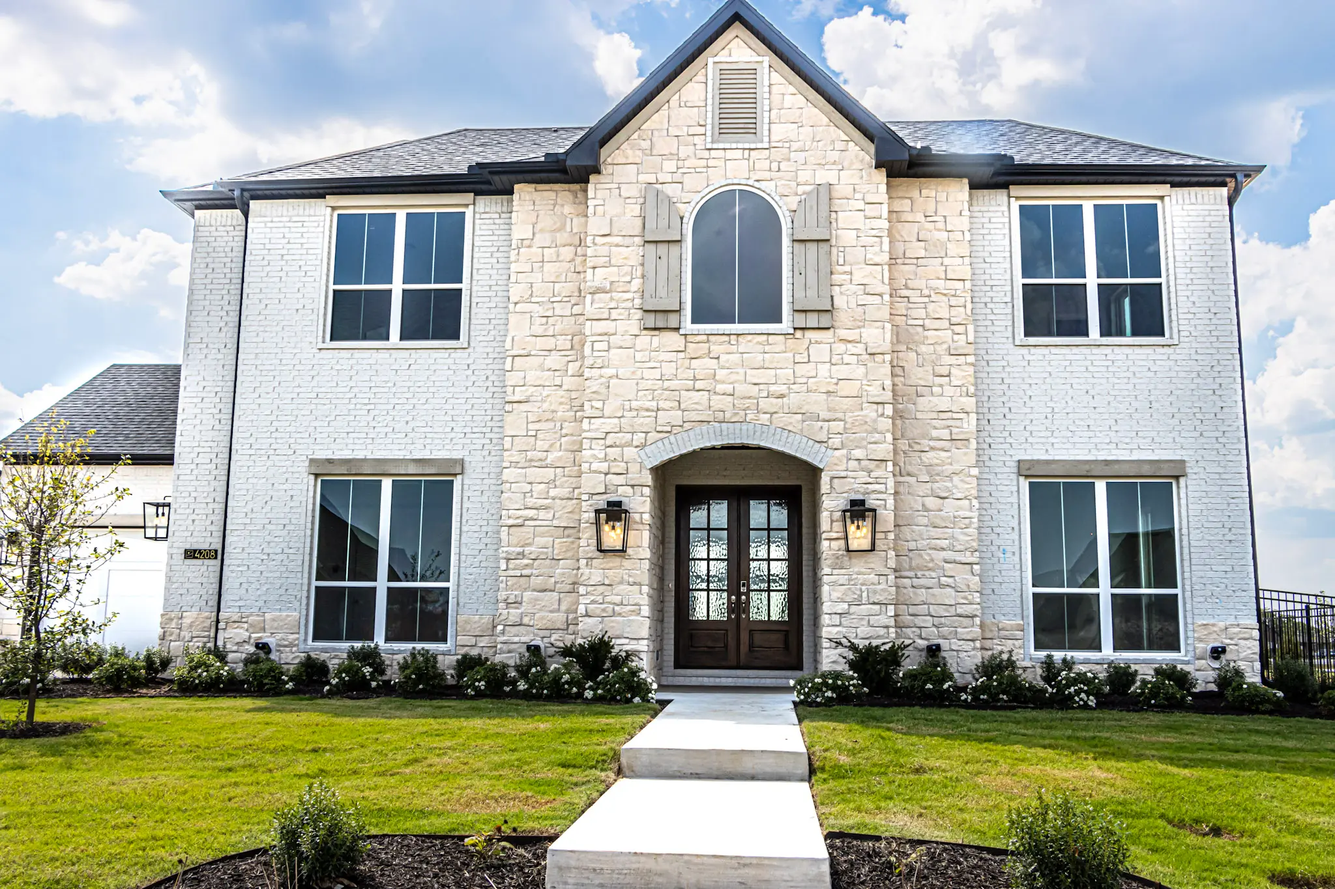
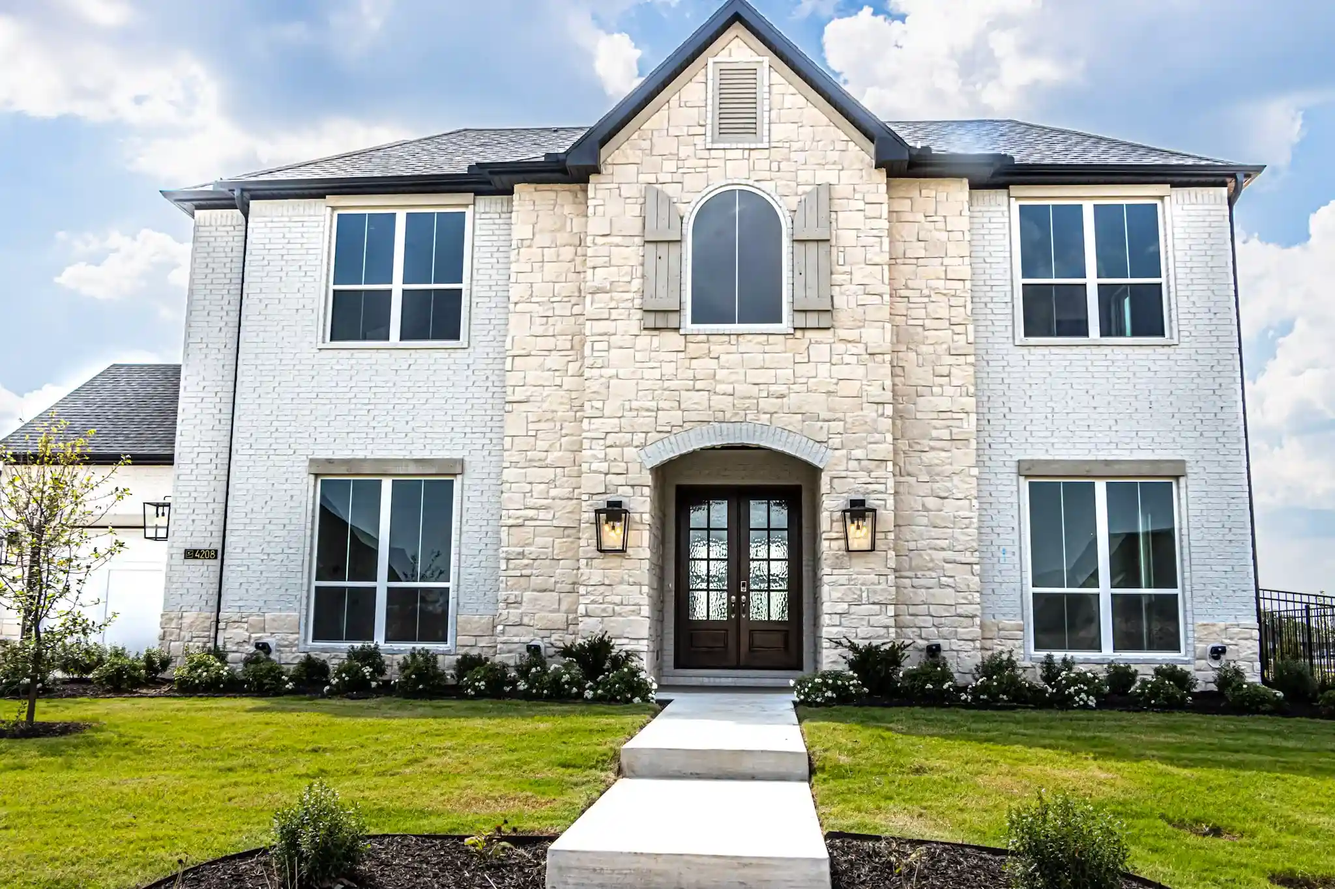
Update image imports from JPG to WebP format (68CPjQfi43Ek)

diff --git a/src/components/pages/Gallery.jsx b/src/components/pages/Gallery.jsx
@@ -7,7 +7,7 @@ import SEOHead from '../SEOHead';
 
 // Import images
 import project1 from '../../assets/C1YKTpWsG2qG.jpg';
-import project2 from '../../assets/68CPjQfi43Ek.jpg';
+import project2 from '../../assets/68CPjQfi43Ek.webp';
 import project7 from '../../assets/chimeneapiedra.webp';
 import project3 from '../../assets/casafachadapiedra.webp';
 import project4 from '../../assets/casaladrillo.webp';

diff --git a/src/components/pages/Services.jsx b/src/components/pages/Services.jsx
@@ -7,7 +7,7 @@ import SEOHead from '../SEOHead';
 import imaheaderservice from '../../assets/ladrillo.webp';
 
 // Import images
-import brickworkImage from '../../assets/68CPjQfi43Ek.jpg';
+import brickworkImage from '../../assets/68CPjQfi43Ek.webp';
 import stoneworkImage from '../../assets/BjlXGtMw0xC2.jpg';
 import repairImage from '../../assets/C1YKTpWsG2qG.jpg';
 
